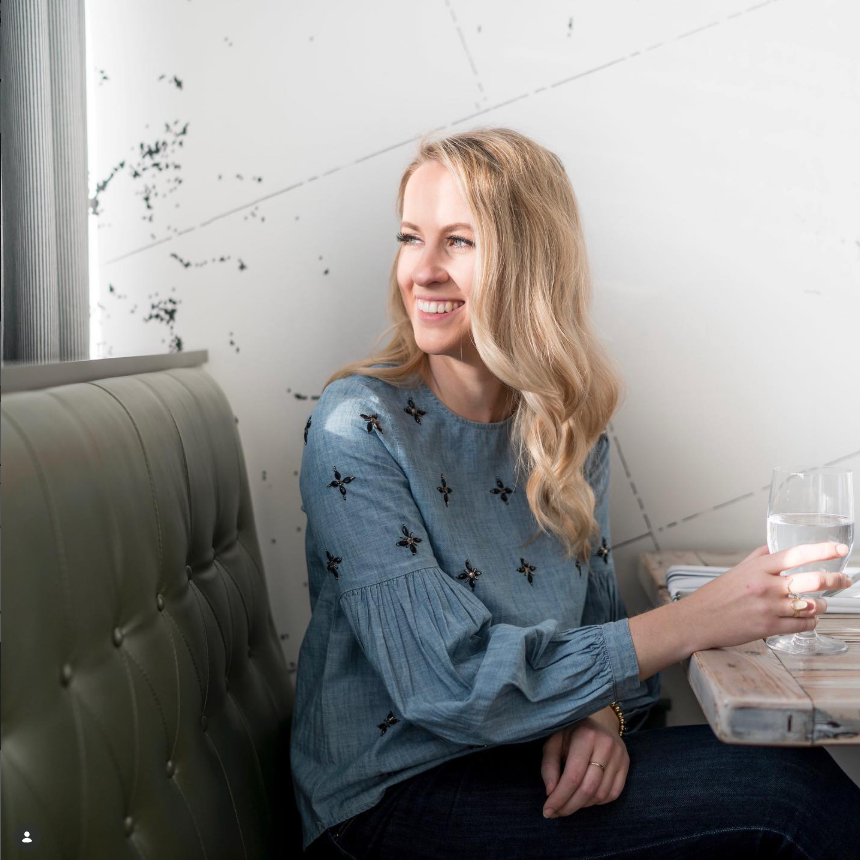
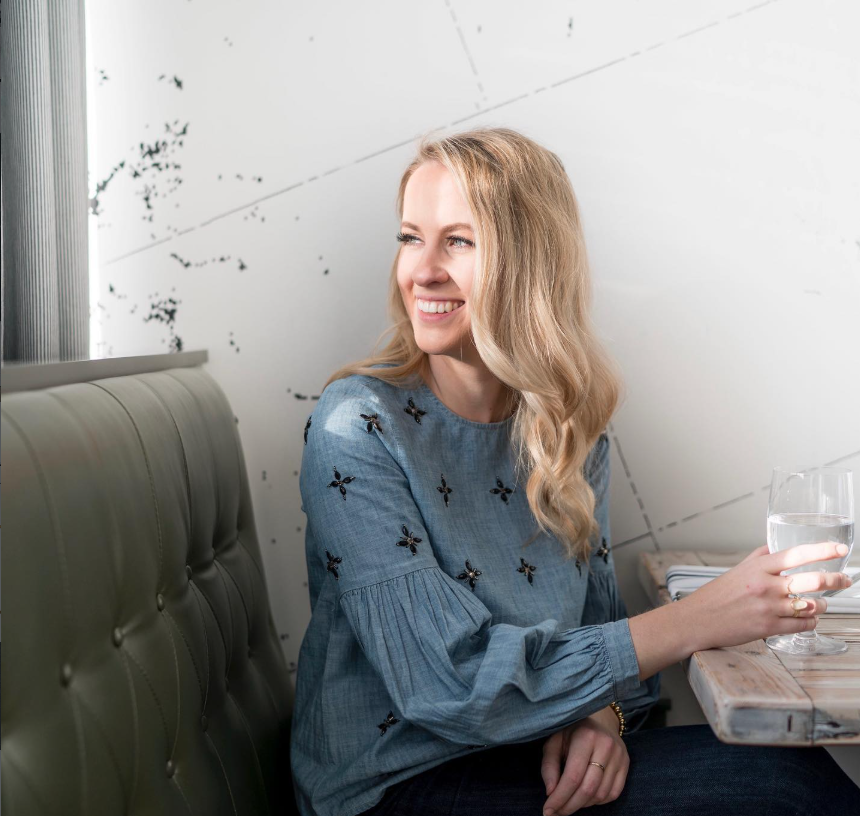
Remove unnecessary text in cta sections

diff --git a/about.html b/about.html
@@ -29,29 +29,40 @@
     </section>
 
     <!-- IMAGES-->
-    <section class="about-images">
-        <img src="images/about/profile1.png" alt="Sarah Beadle, Principal Designer at Gioia Interiors">
-        <img src="images/about/profile3.png" alt="Sarah Beadle working on design plans">
-        <img src="images/about/profile2.png" alt="Sarah Beadle styling a space">
+    <section class="section">
+        <div class="about-images">
+            <img src="images/about/profile1.png" alt="Sarah Beadle, Principal Designer at Gioia Interiors">
+            <img src="images/about/profile3.png" alt="Sarah Beadle working on design plans">
+            <img src="images/about/profile2.png" alt="Sarah Beadle styling a space">
+        </div>
     </section>
 
-    <!-- BIO-->
-    <section class="bio">
+    <!-- BIO -->
+    <section class="section bio">
         <h2>About the Designer</h2>
-        <p>Sarah Beadle is the principal designer and founder of Gioia Interiors. With design education from Mount Royal University and Bow Valley College, Sarah has spent the past six years in the industry working with clients across Western Canada.</p>
+        <p class="bio-intro"><strong>Sarah Beadle</strong> is the principal designer and founder of Gioia Interiors, with six years of experience working with clients across Western Canada</p>
         
-        <p>She has a passion for creating environments that bring joy and improve the quality of space while reflecting each client's unique needs and personality. The top tools in her skill set are creating trust right from the start, building strong teams through collaboration, maintaining open communication, developing lasting relationships, creating cohesive concepts, and providing one-of-a-kind designs.</p>
-        
-        <p>Sarah believes in working on the same level with the client while providing support, expertise, and confidence throughout their project. Her designs are infused with timelessness, functionality, comfort, and personality while evoking emotions experienced when in a state of well-being.</p>
-        
-        <h3>A Bit About Sarah</h3>
-        <p>Outside of design, she loves Venice, Italy; surrounding herself with loved ones; chocolate chip cookies; breathing in fresh air from the top of a mountain; and layering, whether in fashion or design.</p>
-        
-        <p>In her spare time, you'll find Sarah dreaming of eating gelato in Venice, catching up with friends at local cafes, clearing her head on a jog, attempting not to fall asleep during shavasana in yoga, exploring homes in nearby communities, or hiking, camping, and boating in nature.</p>
+        <div class="card-grid">
+            <div class="card">
+                <h3>Design Philosophy</h3>
+                <p>Creates environments that bring joy while reflecting each client's unique needs and personality</p>
+            </div>
+            
+            <div class="card">
+                <h3>Approach</h3>
+                <p>Works collaboratively with clients as partners, building trust through open communication and delivering one-of-a-kind designs</p>
+            </div>
+            
+            <div class="card">
+                <h3>A Bit About Sarah</h3>
+                <p><strong>Loves:</strong> Venice • Loved ones • Chocolate chip cookies • Mountain views</p>
+                <p><strong>Spare time:</strong> Cafes • Jogging • Yoga • Hiking & camping</p>
+            </div>
+        </div>
     </section>
 
     <!-- PROCESS SECTION-->
-    <section class="process">
+    <section class="section">
         <h2>Three Values for Gaining Client Trust</h2>
         <div class="process-container">
             <!-- Process Steps-->
@@ -59,23 +70,23 @@
                 <!-- Collaboration-->
                 <div class="card">
                     <h3>Collaboration</h3>
-                    <p>Allows clients to be heard, understood, and involved during the design process. Clients feel a sense of ownership and control with their project.</p>
+                    <p>Clients are heard, understood, and involved throughout the design process, maintaining ownership and control of their project</p>
                 </div>
                 <!-- Communication-->
                 <div class="card">
                     <h3>Communication</h3>
-                    <p>Keeps clients in the loop, minimizing surprises and upset. We provide tools for everyone involved—client, contractor, and trades—so miscommunication is minimized and expensive mistakes don't happen.</p>
+                    <p>Clients stay informed with tools provided for everyone involved (client, contractor, and trades) to minimize miscommunication and costly mistakes</p>
                 </div>
                 <!-- Client-Care-->
                 <div class="card">
                     <h3>Client Care</h3>
-                    <p>Gioia becomes the client's advocate and voice, both on and off site. We ensure each project finishes with the highest quality workmanship to the client's complete satisfaction.</p>
+                    <p>Sarah advocates for clients on and off site, ensuring each project finishes with the highest quality workmanship and complete satisfaction</p>
                 </div>
             </div>
         </div>
     </section>
 
-    <section class="testimonial">
+    <section class="testimonial tight-spacing">
         <div class="testimonial-container">
             <blockquote>
                 <p>"Sarah is very good at being thoughtful towards our tastes without pressuring us towards a certain decision. She easily exhibits her knowledge of design and we were so thankful to have her holding our hand every step of the way, taking out the stress in a process that should be enjoyable."</p>
@@ -85,8 +96,7 @@
     </section>
 
     <section class="cta-section">
-        <h2>Start Your Project</h2>
-        <p>Gioia Interiors is a boutique design firm based in Calgary, Alberta, serving all of Western Canada. We specialize in residential and hospitality design and take on projects of all sizes—from full home renovations to single room updates.</p>
+        <h2>Ready to Work Together?</h2>
         <a href="#contact" class="cta-button">Contact Us</a>
     </section>
 

diff --git a/styles.css b/styles.css
@@ -10,7 +10,7 @@
     --slate-blue: #4A5568;
     --warm-taupe: #9B8B7E;
     --brass-gold: #B8956A;
-    --max-width: 1200px;
+    --max-width: 900px;
 }
 
 body {
@@ -32,7 +32,10 @@ h2 {
     margin-top: 3rem;
  }
 
- h3 { font-size: 1.5rem; }
+ h3 { 
+    font-size: 1.5rem; 
+    color: var(--slate-blue)
+}
 
 a {
     color: var(--brass-gold);
@@ -50,7 +53,7 @@ nav {
     display: flex;
     justify-content: space-between;
     align-items: center;
-    max-width: 1200px;
+    max-width: var(--max-width);
     margin: 0 auto;
 }
 
@@ -98,7 +101,7 @@ section {
 
 /* PAGE HERO - Standardized for all pages */
 .page-hero {
-    padding: 3rem 5%;
+    padding: 2rem;
     background-color: var(--soft-cream);
     margin: 3rem auto 0;
     max-width: var(--max-width);
@@ -287,15 +290,23 @@ section {
     object-position: center;
 }
 
-/* INSTAGRAM IMAGES*/
-
-.card a {
-    display: block;
+/* INSTAGRAM SECTION */
+.instagram-preview {
+    max-width: 900px;
 }
 
+/* INSTAGRAM GRID */
+.instagram-grid {
+    display: grid;
+    grid-template-columns: repeat(4, 1fr);
+    gap: 1.5rem;
+    margin-top: 2rem;
+}
+
+/* INSTAGRAM IMAGES */
 .instagram-image {
     width: 100%;
-    height: 250px;
+    height: 200px;
     object-fit: cover;
     transition: opacity 0.3s ease;
 }
@@ -391,6 +402,17 @@ cite {
     color: var(--warm-taupe);
 }
 
+/* TIGHT SPACING */
+
+/* Utility class for reduced spacing */
+.tight-spacing {
+    margin-bottom: 0 !important;
+}
+
+.tight-spacing + section {
+    margin-top: 0 !important;
+}
+
 /* TESTIMONIALS 
 .testimonial {
     text-align: center;
@@ -430,6 +452,29 @@ footer {
 }
 
 /* BIO SECTION */
+
+.bio-image {
+    width: 100%;
+    max-width: 500px;
+    height: 500px;
+    object-fit: cover;
+    margin: 0 auto 2rem;
+    border-radius: 4px;
+    display: block;
+}
+
+.bio p {
+    line-height: 1.8;
+    margin-bottom: 1.5rem;
+    margin-top: 1rem;
+}
+
+.bio p strong {
+    color: var(--warm-taupe);
+    font-weight: 600;
+}
+
+/* BIO SECTION 
 .bio {
     max-width: var(--max-width);
     margin: 3rem auto;
@@ -445,6 +490,7 @@ footer {
     border-radius: 4px;
     display: block;
 }
+    */
 
 /* PROCESS SECTION */
 .process {
@@ -455,12 +501,12 @@ footer {
 
 /* ABOUT IMAGES - 3 image grid */
 .about-images {
-    margin: 2rem auto;
-    padding: 0 5%;
+    margin: 3rem 0;
     display: grid;
     grid-template-columns: 2fr 1fr;
     grid-template-rows: repeat(2, 1fr);
     gap: 2rem;
+    max-width: var(--max-width);
 }
 
 .about-images img:nth-child(1) {
@@ -478,13 +524,6 @@ footer {
     object-fit: cover;
     object-position: top;
     border-radius: 4px;
-}
-
-/* BIO SECTION */
-.bio {
-    max-width: var(--max-width);
-    margin: 3rem auto;
-    padding: 0 5%;
 }
 
 /* PROCESS SECTION */

diff --git a/index.html b/index.html
@@ -26,7 +26,7 @@
     <section class="page-hero">
         <div class="hero-content">
             <h1>Transform Your Space</h1>
-            <p>A boutique interior design firm focusing on a functional approach to creating dream spaces for each individual need</p>
+            <p>A boutique interior design firm creating functional, personalized spaces</p>
             <a href="#contact" class="cta-button">Start Your Project</a>
         </div>
     </section>
@@ -95,11 +95,11 @@
         </blockquote>
     </section>
 
-<!-- INSTAGRAM-->
-    <section class="section">
+    <!-- INSTAGRAM-->
+    <section class="instagram-preview">
         <h2>Follow Along</h2>
         <p class="section-intro">See our latest projects on Instagram</p>
-        <div class="card-grid">
+        <div class="instagram-grid">
             <div class="card instagram-card">
                 <a href="https://www.instagram.com/gioiainteriors" target="_blank" rel="noopener noreferrer">
                     <img src="images/instagram/post-1.png" alt="Interior design project" class="instagram-image">
@@ -145,7 +145,6 @@
 
     <section class="cta-section">
         <h2>Ready to Begin?</h2>
-        <p>Serving Calgary, Banff, Edmonton, Lethbridge, and everywhere in between. Travel outside these areas available upon request.</p>
         <a href="#contact" class="cta-button">Get In Touch</a>
     </section>
 

diff --git a/portfolio.html b/portfolio.html
@@ -23,7 +23,7 @@
 
     <section class="page-hero">
         <h1>Portfolio</h1>
-        <p>A selection of recent residential projects showcasing functional design tailored to each client's unique needs</p>
+        <p>Residential projects showcasing functional, personalized design</p>
     </section>
 
     <section class="portfolio-grid">
